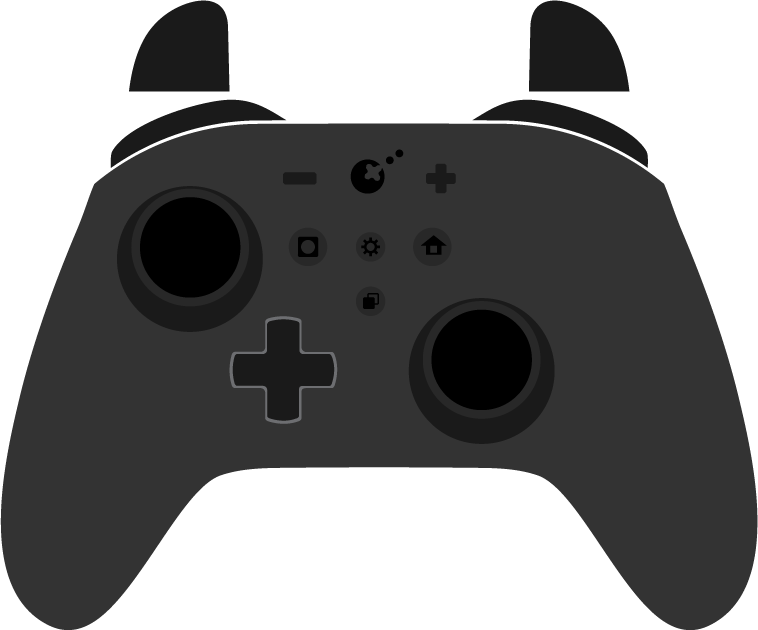
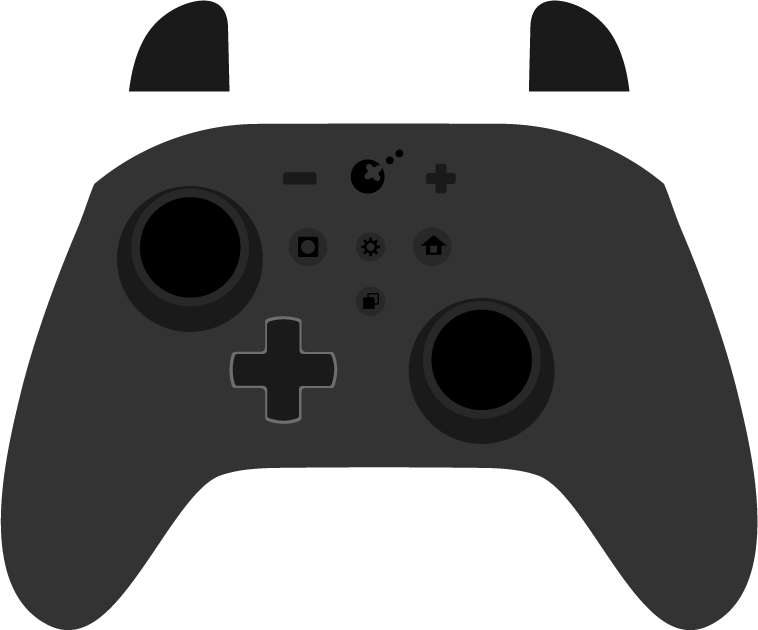
Add files via upload

Changed region(s): [[0.6069, 0.1508, 0.8799, 0.2714], [0.1214, 0.1508, 0.3945, 0.2714]]

diff --git a/gulikit-kingkong-black/gulikitkkblk.css b/gulikit-kingkong-black/gulikitkkblk.css
@@ -1,13 +1,13 @@
 
 .controller.custom {
-    background: url(base.svgz); 
+    background: url(base.png); 
     height: 630px;
     width: 758px;
 }
 
 
 .custom.disconnected { /* This class shows an image when the controller is disconnected */
-    background: url(disconnected.svgz);
+    background: url(disconnected.png);
 }
 
 
@@ -30,7 +30,7 @@
 .custom .trigger {/* These are the actual triggers themselves */
     width:100px;
     height:91px;
-    background: url(trigger.svgz);
+    background: url(trigger.png);
 }
 
 .custom .trigger.pressed {
@@ -46,10 +46,10 @@
 }
 
 .custom .bumpers {
-    width: 535px;
+    width: 537px;
     height: 67px;
-    left: 112px;
-    top:  99px;
+    left: 111px;
+    top:  98px;
     position: absolute;
 }
 
@@ -60,11 +60,12 @@
 .custom .bumper{
     width: 174px;
     height: 68px;
+    background: url(bumper.png);
 
 }
 
 .custom .bumper.pressed {
-    background: url(bumper.svgz);
+    background-position-y: -68px;
 }
 
 .custom .bumper.left{
@@ -90,7 +91,7 @@
 
 .custom .stick {
     position: absolute;
-    background: url(stick.svgz);
+    background: url(stick.png);
     height: 86px;
     width: 86px;
 }
@@ -135,7 +136,7 @@
 }
 
 .custom .face.pressed{
-    background: url(dpad.svgz);
+    background: url(dpad.png);
 
 }
 .custom .face.up{
@@ -178,7 +179,7 @@
     position: absolute;
     width: 50px;
     height: 50px;
-    background: url(face.svgz);
+    background: url(face.png);
 }
 .custom .button.pressed {
     background-position-y: -50px;
@@ -210,21 +211,19 @@
 }
 
 .custom .back {
-    background: url(start.svgz);
+    background: url(start.png);
     width: 34px;
     height: 29px;
-    opacity: 0;
     float: left;
 }
 
 .custom .start {
-    background: url(start.svgz);
+    background: url(start.png);
     width: 29.5px;
     height: 29.5px;
-    opacity: 0;
     float: right;
     background-position: 30px 0;
 }
 .custom .back.pressed, .custom .start.pressed {
-    opacity: 1;
+    background-position-y: -30px;
 }
